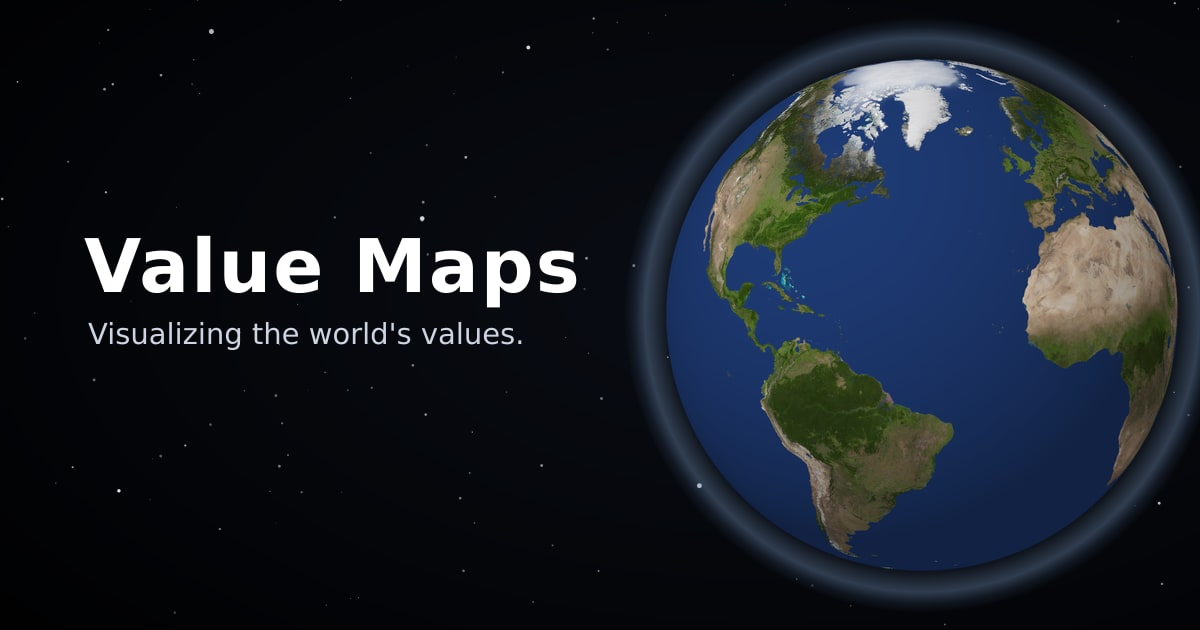
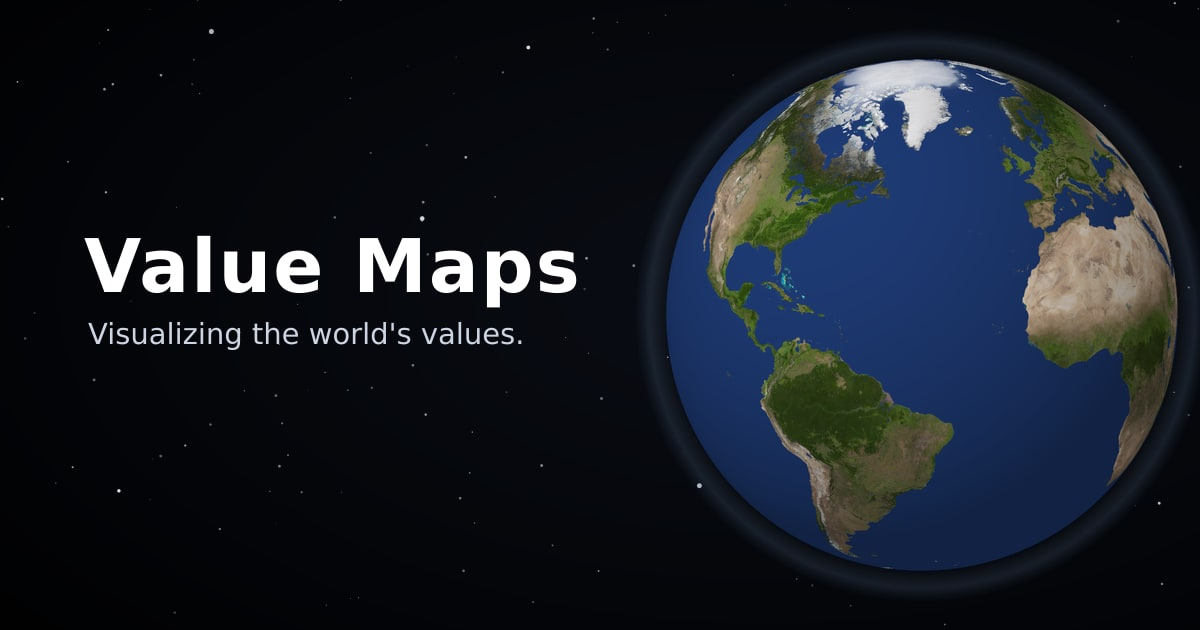
Make the Earth atmosphere glow much more subtle (globe + OG image)
Soften the halo on the live globe (fainter, thinner gradient and rim) and on
the share card's Earth.

Claude-Session: https://claude.ai/code/session_01DjuBXvMLqeDm2faKXwwgQv

Changed region(s): [[0.5242, 0.0302, 1.0, 0.9651]]

diff --git a/components/Globe.tsx b/components/Globe.tsx
@@ -583,12 +583,12 @@ export default function Globe({
     const projection = makeProjection();
     const path = geoPath(projection, ctx);
 
-    // Atmosphere — a thin, subtle halo (kept understated, not a heavy glow).
-    const glow = ctx.createRadialGradient(cx, cy, r * 0.97, cx, cy, r * 1.11);
-    glow.addColorStop(0, `rgba(${p.style.atmosphere},0.14)`);
+    // Atmosphere — a whisper-thin halo, intentionally very faint.
+    const glow = ctx.createRadialGradient(cx, cy, r * 0.98, cx, cy, r * 1.08);
+    glow.addColorStop(0, `rgba(${p.style.atmosphere},0.06)`);
     glow.addColorStop(1, `rgba(${p.style.atmosphere},0)`);
     ctx.beginPath();
-    ctx.arc(cx, cy, r * 1.11, 0, Math.PI * 2);
+    ctx.arc(cx, cy, r * 1.08, 0, Math.PI * 2);
     ctx.fillStyle = glow;
     ctx.fill();
 
@@ -664,7 +664,7 @@ export default function Globe({
 
     ctx.beginPath();
     ctx.arc(cx, cy, r, 0, Math.PI * 2);
-    ctx.strokeStyle = `rgba(${p.style.atmosphere},0.22)`;
+    ctx.strokeStyle = `rgba(${p.style.atmosphere},0.10)`;
     ctx.lineWidth = 1;
     ctx.stroke();
 